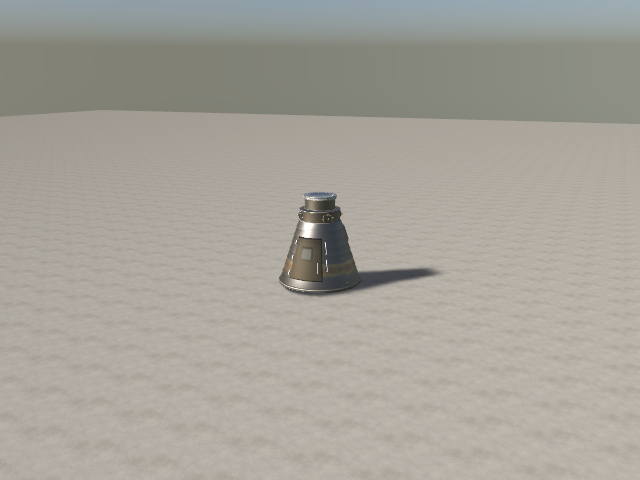
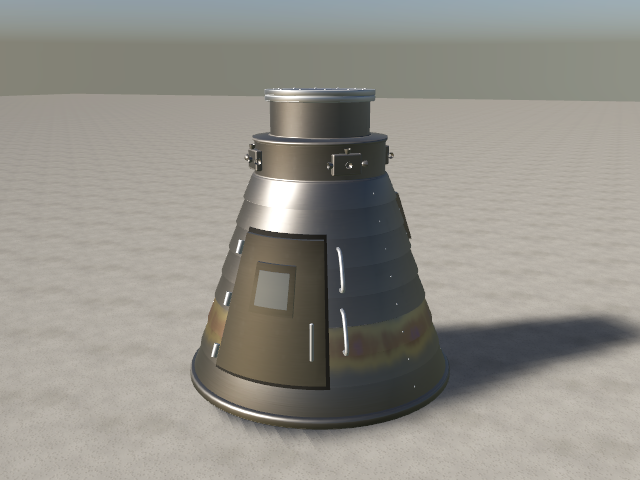
Aerospace kit: shared tank builder; command-pod preview framing

Changed region(s): [[0.0, 0.1875, 1.0, 0.9375]]

diff --git a/Sources/RealLibrary/Props/Aerospace/AerospaceKit.swift b/Sources/RealLibrary/Props/Aerospace/AerospaceKit.swift
@@ -65,3 +65,107 @@ func boltCircle(_ m: inout Model, radius r: Float, y: Float, count: Int, phase: 
 func meridian(_ r: (Float) -> Float, a: Float, y0: Float, y1: Float, lift: Float, n: Int = 8) -> [V3] {
     (0...n).map { k in let y = y0 + (y1 - y0) * Float(k) / Float(n); return V3(sin(a), 0, cos(a)) * (r(y) + lift) + V3(0, y, 0) }
 }
+
+/// Shared fuel tank body for fuel-tank-s/-m/-l: brushed aluminum barrel between painted forward and aft
+/// skirts with external stringers, machined stack rings with bolt circles, circumferential and
+/// longitudinal weld beads, a fill/drain port with a bolted cap and optional roll-pattern stripes.
+func fuelTankLOD(radius R: Float, height H: Float, stripes: Bool, barrel: MaterialKey, skirt: MaterialKey,
+                 stripe: MaterialKey, seed: UInt64) -> LODModel {
+    var rng = SeededRNG(seed: seed)
+    var levels: [Model] = []
+    let ringH: Float = 0.05, skirtH: Float = min(0.16, H * 0.12)
+    let bodyR = R - 0.012
+    for l in 0..<2 {
+        var m = Model(name: "fuel-tank")
+        let sg = l == 0 ? 64 : 28
+        // Stack rings top and bottom.
+        m.add(stackRing(radius: bodyR, y: 0, height: ringH, proud: 0.012, segments: sg, material: "metal.steel"))
+        m.add(stackRing(radius: bodyR, y: H - ringH, height: ringH, proud: 0.012, segments: sg, material: "metal.steel"))
+        // End decks (bulkhead closeouts seen through the rings).
+        m.add(Prim.lathe([V2(bodyR - 0.004, 0.002), V2(0, 0.002)].reversed(), segments: sg, material: "metal.aluminum-brushed"))
+        // Forward bulkhead dome showing inside the top ring, with a vent fitting.
+        var dome: [V2] = [V2(bodyR - 0.004, H - 0.03)]
+        for k in 1...6 { let t = Float(k) / 6; dome.append(V2((bodyR - 0.004) * cos(t * .pi / 2), H - 0.03 + 0.022 * sin(t * .pi / 2))) }
+        dome[dome.count - 1] = V2(0, H - 0.008)
+        m.add(Prim.lathe(dome, segments: sg, seamTile: 1, material: "metal.aluminum-brushed"))
+        m.add(Prim.lathe([V2(0.06, H - 0.012), V2(0.06, H - 0.002), V2(0.045, H), V2(0, H)], segments: 16, material: "metal.steel"))
+        // Skirts (painted) and barrel (bare brushed aluminum).
+        m.add(Prim.lathe([V2(bodyR, ringH), V2(bodyR, ringH + skirtH)], segments: sg, seamTile: 1, material: skirt))
+        m.add(Prim.lathe([V2(bodyR, H - ringH - skirtH), V2(bodyR, H - ringH)], segments: sg, seamTile: 1, material: skirt))
+        var prof: [V2] = []
+        let y0 = ringH + skirtH, y1 = H - ringH - skirtH
+        // Weld beads: skirt joints plus circumferential seams every ~0.9 m.
+        let seams = max(0, Int(((y1 - y0) / 0.9).rounded(.down)))
+        var cuts: [Float] = [y0]
+        for k in 1...max(1, seams + 1) where k <= seams { cuts.append(y0 + (y1 - y0) * Float(k) / Float(seams + 1)) }
+        cuts.append(y1)
+        // Barrel: four gores of mill-finish sheet with slightly different brushing, joined by weld beads.
+        for g in 0..<4 {
+            let a0 = Float(g) * .pi / 2 + 0.3
+            m.add(revPatch(radius: { _ in bodyR }, a0: a0, a1: a0 + .pi / 2, y0: y0, y1: y1, lift: 0, thickness: 0.004,
+                           nu: sg / 4, nv: 1, material: g % 2 == 0 ? barrel : "metal.satin-aluminum"))
+            m.add(Prim.tube(meridian({ _ in bodyR }, a: a0, y0: y0 + 0.004, y1: y1 - 0.004, lift: 0.0005, n: 2),
+                            radii: [0.0045, 0.0045, 0.0045], sides: 6, seamTile: 0.05, material: barrel, capEnd: true))
+        }
+        for c in cuts {
+            // Friction-stir weld land: a brighter machined band either side of the bead.
+            m.add(Prim.lathe([V2(bodyR + 0.0006, c - 0.022), V2(bodyR + 0.0006, c + 0.022)], segments: sg, seamTile: 1,
+                             material: "metal.machined"))
+            m.add(Prim.torus(major: bodyR + 0.0005, minor: 0.0045, segments: sg, sides: 6, material: barrel), Xform(translation: V3(0, c, 0)))
+        }
+        // Stringers on the skirts.
+        let ns = l == 0 ? 32 : 16
+        for k in 0..<ns {
+            let a = Float(k) / Float(ns) * 2 * .pi
+            for (sy0, sy1) in [(ringH, ringH + skirtH), (H - ringH - skirtH, H - ringH)] {
+                let half = 0.007 / bodyR
+                m.add(revPatch(radius: { _ in bodyR }, a0: a - half, a1: a + half, y0: sy0 + 0.002, y1: sy1 - 0.002, lift: 0.011,
+                               thickness: 0.012, nu: 1, nv: 1, material: skirt))
+            }
+        }
+        // Cable raceway: a painted cover running the barrel between the skirts, with clamp bands.
+        let ra: Float = 1.1, rw: Float = 0.035 / bodyR
+        m.add(revPatch(radius: { _ in bodyR }, a0: ra - rw, a1: ra + rw, y0: ringH + 0.01, y1: H - ringH - 0.01, lift: 0.04,
+                       thickness: 0.04, nu: l == 0 ? 3 : 1, nv: 1, material: skirt))
+        // Pressurization line beside the raceway, standing off on brackets.
+        let la = ra + 0.13
+        let line = meridian({ _ in bodyR }, a: la, y0: ringH + 0.02, y1: H - ringH - 0.02, lift: 0.03, n: 2)
+        m.add(Prim.tube(line, radii: [0.013, 0.013, 0.013], sides: l == 0 ? 10 : 6, seamTile: 0.1, material: "metal.steel", capEnd: true))
+        if l == 0 {
+            var cy = y0 + 0.2
+            while cy < y1 - 0.1 {
+                m.add(revPatch(radius: { _ in bodyR }, a0: ra - rw * 1.5, a1: la + 0.03, y0: cy, y1: cy + 0.025, lift: 0.046,
+                               thickness: 0.046, nu: 3, nv: 1, material: "metal.steel"))
+                cy += 0.45
+            }
+        }
+        if stripes {
+            // Roll pattern: two opposite black quarters on the barrel.
+            for q in [0, 2] {
+                let a0 = Float(q) * .pi / 2 + .pi / 4
+                m.add(revPatch(radius: { _ in bodyR }, a0: a0, a1: a0 + .pi / 2, y0: y0 + 0.01, y1: y1 - 0.01, lift: 0.0012,
+                               thickness: 0.001, nu: l == 0 ? 12 : 6, nv: 1, material: stripe))
+            }
+        }
+        // Fill / drain port with a bolted cap near the top.
+        let pa: Float = 0.5, py = y1 - 0.12
+        let d = V3(sin(pa), 0, cos(pa)), pc = d * bodyR + V3(0, py, 0)
+        m.add(Prim.lathe([V2(0.055, -0.01), V2(0.055, 0.012), V2(0.05, 0.016), V2(0.035, 0.016), V2(0.035, 0.04),
+                          V2(0.03, 0.045), V2(0, 0.045)], segments: l == 0 ? 20 : 10, seamTile: 0.1, material: "metal.steel"),
+              Xform(translation: pc, rotation: facing(d)))
+        if l == 0 {
+            for k in 0..<6 {
+                let t = Float(k) / 6 * 2 * .pi
+                let q = facing(d)
+                rivet(&m, at: pc + q.act(V3(cos(t) * 0.044, 0.016, sin(t) * 0.044)), normal: d, radius: 0.005, height: 0.004, segments: 6, material: "metal.steel")
+            }
+            boltCircle(&m, radius: bodyR - 0.03, y: H, count: 24, phase: rng.float(0...0.1), up: true, size: 0.006, material: "metal.steel")
+            // Stencil-free story detail: a warning placard plate beside the port.
+            m.add(revPatch(radius: { _ in bodyR }, a0: pa + 0.12, a1: pa + 0.26, y0: py - 0.03, y1: py + 0.05, lift: 0.0015, thickness: 0.0015,
+                           nu: 2, nv: 1, material: "metal.painted:E8C21C"))
+        }
+        groundAO(&m, height: 0.12)
+        levels.append(m)
+    }
+    return LODModel(levels: levels, switchDistances: [9])
+}

diff --git a/Sources/RealLibrary/Props/Aerospace/CommandPod.swift b/Sources/RealLibrary/Props/Aerospace/CommandPod.swift
@@ -11,7 +11,7 @@ public struct CommandPod: RealArticulated {
     public static let tags = ["prop", "aerospace", "metal", "vehicle", "articulated"]
     public static let budget = 15000
     public static let author = "realityhd"
-    public static let preview = PreviewHint(azimuth: 24, elevation: 14, distance: 3.2, studio: true)
+    public static let preview = PreviewHint(azimuth: 24, elevation: 14, distance: 1.0, studio: true)
 
     /// Base (heat shield) diameter in meters.
     public var diameter: Float = 1.25
